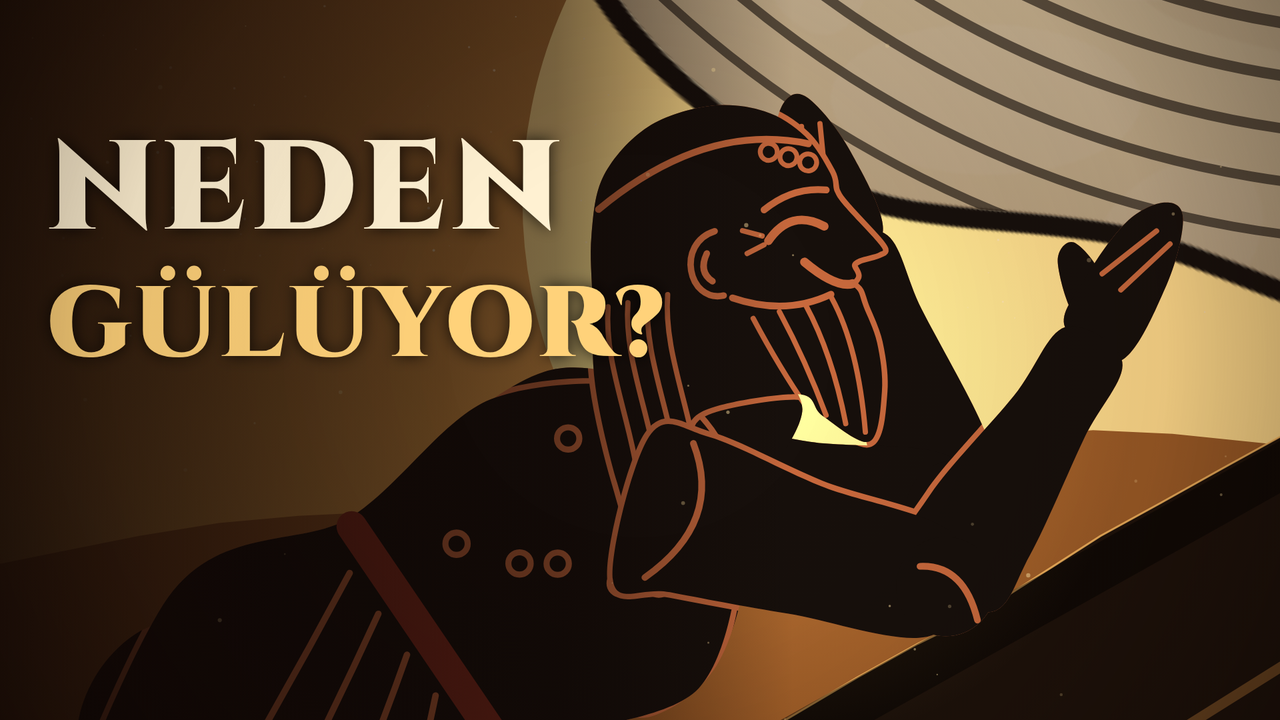
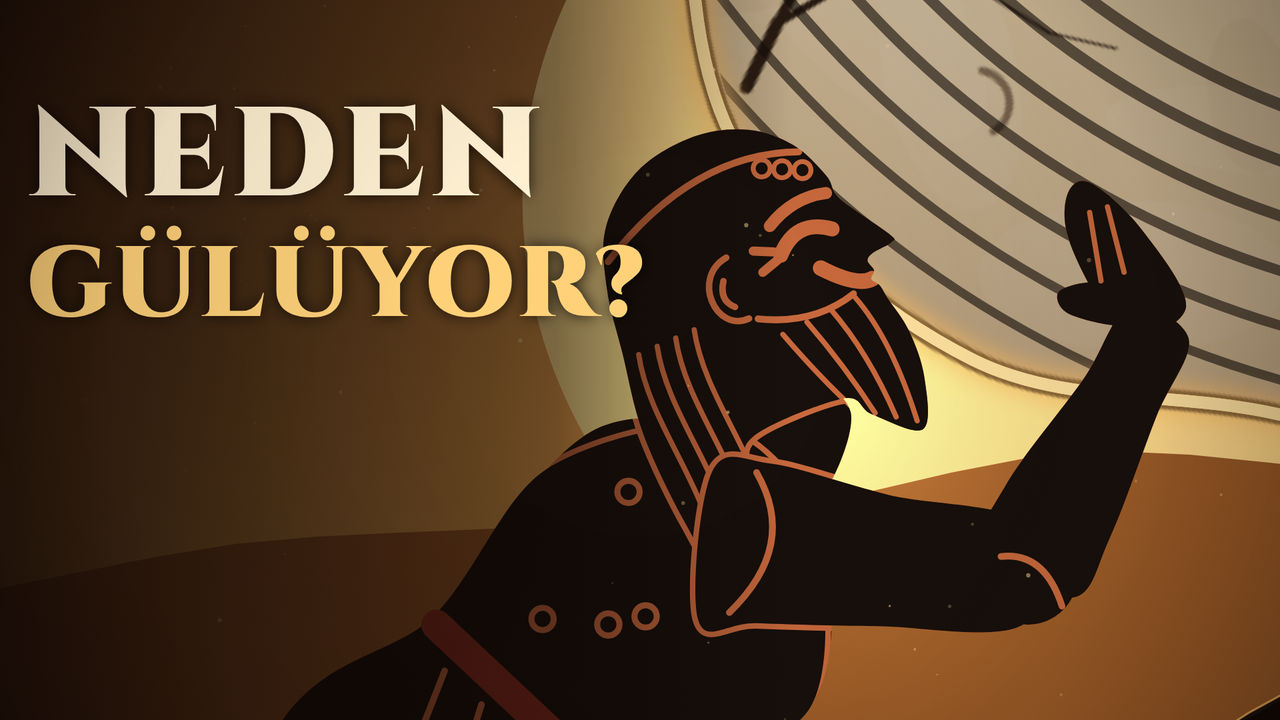
Sisifos: kurul 8. tur görsel düzeltmeleri (G10 eller ve alıntı zemini, G6 tek itiş, E1 paralaks, E2/E4 pozlar, D5 kalkış, D9b açı, çuvallı hamal, kapak B)
Claude-Session: https://claude.ai/code/session_01JJLJaY3ACPrjMaXvjxBBQC

diff --git a/sisifos/lib/act4.js b/sisifos/lib/act4.js
@@ -3,10 +3,11 @@
 // E1 — ölüm döşeğinde fısıltı
 shot(S('E01') - .3, (ctx, st) => {
   const t = st.t, lt = st.lt;
-  palace(ctx, t, { dark: .82, cols: [120, 1800] });
   // fısıltıda orta iki kişilik plana yaklaşma
   const gy = 880, tw = Wd('E01', 'kulağına'), two = ramp(t, tw - .45, tw + .45, E.io3);
   const c = { x: lerp(lerp(980, 930, st.p), 860, two), y: lerp(560, 520, two), z: lerp(lerp(1, 1.08, E.sine(st.p)), 1.9, two) };
+  // oda (sütunlar, friz) .45 derinlikte: yaklaşmada figürlerden yavaş kayar, mekân derinlik kazanır
+  ctx.save(); cam(ctx, { x: c.x, y: c.y, z: c.z + .06 }, .45); palace(ctx, t, { dark: .82, cols: [120, 1800] }); ctx.restore();
   ctx.save(); cam(ctx, c, 1);
   oilLamp(ctx, 1380, gy - 240, 2.4, t);
   ctx.fillStyle = C.ink; ctx.fillRect(1340, gy - 236, 80, 236);
@@ -26,15 +27,15 @@ shot(S('E01') - .3, (ctx, st) => {
     [tE + .2, { torso: -.04, neck: .05, head: .16 }],
     [tF + 1.2, { torso: -.06, head: .2 }],
   ]);
-  const ms = keyed(t, [[S('E01') - .3, { torso: .02, neck: .05, head: .08, shN: .25, elN: .35 }], [tE - .35, { torso: .02, neck: .05, head: .08, shN: .25, elN: .35 }],
-    [tE + .25, { torso: -.07, neck: -.12, head: -.08, shN: .55, elN: 1.75 }, E.outBack], [tF + 1.5, { torso: -.06, neck: -.1, head: -.05 }]]); // dinlerken eli göğsünde
+  const ms = keyed(t, [[S('E01') - .3, { torso: .02, neck: .05, head: .08, shN: .25, elN: .35, wrN: 0 }], [tE - .35, { torso: .02, neck: .05, head: .08, shN: .25, elN: .35, wrN: 0 }],
+    [tE + .25, { torso: -.07, neck: -.12, head: -.08, shN: -.18, elN: 2.05, wrN: .55 }, E.outBack], [tF + 1.5, { torso: -.06, neck: -.1, head: -.05 }]]); // dinlerken eli göğsünde
   const whisper = t > tF - .1 && t < tF + 1.2 ? Math.max(0, Math.sin(t * 11)) * .45 : 0;
   // sıcak kandil ışığı Sisifos'un arkasında (siyah figür koyu duvarda kaybolmasın)
   glow(ctx, 790, 520, 420, 'rgba(255,170,90,.34)'); glow(ctx, 805, 480, 170, 'rgba(255,200,130,.28)');
   const mx = 948, my = gy - 46 * 5.0;
   let shM = null;
   // Merope'nin omuz noktası (Sisifos'un eli için) önce kuru hesaplanır
-  const mPose = { ...ms, hipN: .12, hipF: -.1, shF: .15, elF: .5, handN: 'flat' };
+  const mPose = { ...ms, hipN: .12, hipF: -.1, shF: .15, elF: .5, handN: t > tE ? 'fist' : 'flat' }; // fısıltıyı dinlerken eli göğsünde, yumruk
   figure(ctx, { x: mx, y: my, s: 5.0, lk: LK.merope, p: mPose, alpha: 0, still: true, onJoints: (J, M) => { shM = jointPt(ctx, M, J.shoulder); } });
   figure(ctx, { x: 820, y: gy - 30 * 5.2 - 26, s: 5.2, lk: LK.sisKing, p: { ...S1, hipN: 1.6, knN: .05, hipF: 1.55, knF: .1, ankN: -.2, ankF: -.2, shF: lerp(-.9, .55, ramp(t, tK, tM)), elF: lerp(2.3, 1.6, ramp(t, tK, tM)), handN: 'open', breath: Math.sin(t * 1.1) * 1.3, mouthOpen: whisper },
     ik: shM && t > tM - .3 ? { hN: lerp2([900, gy - 300], [shM[0] - 18, shM[1] + 6], E.io2(ramp(t, tM - .3, tM + .35))) } : undefined });
@@ -57,7 +58,7 @@ shot(S('E02') - .2, (ctx, st) => {
     onJoints: (J, M) => { ear = headPt(ctx, J, M, [-1.2, -6.2]); } });
   // Sisifos'un arkasında sıcak ışık (siyah figür koyu duvarda kaybolmasın); başlar arasında boşluk kalır
   if (ear) glow(ctx, ear[0] - 230, ear[1] + 40, 420, 'rgba(255,170,90,.32)');
-  if (ear) figure(ctx, { x: ear[0] - 600, y: ear[1] + 590, s: 15, dir: 1, lk: LK.sisKing, p: { torso: .26, neck: .38, head: .26, shN: .1, shF: 0, blink: .35, mouthOpen: Math.max(0, Math.sin(t * 9)) * .35 * (t < S('E02') + 4.1 ? 1 : 0) }, margin: 40 });
+  if (ear) figure(ctx, { x: ear[0] - 600, y: ear[1] + 590, s: 15, dir: 1, lk: LK.sisKing, p: { torso: .3, neck: .1, head: -.14, shN: .1, shF: 0, blink: .3, mouthOpen: Math.max(0, Math.sin(t * 9)) * .35 * (t < S('E02') + 4.1 ? 1 : 0) }, margin: 40 });
   // simgeler
   const icons = [
     [Wd('E02', 'bedenimi'), 'GÖMME', (c) => { c.fillStyle = C.ink; c.beginPath(); c.moveTo(-70, 40); c.quadraticCurveTo(0, -60, 70, 40); c.fill(); c.fillRect(-12, -70, 24, 50); c.beginPath(); c.arc(0, -72, 14, PI, TAU); c.fill(); }],
@@ -98,12 +99,12 @@ function drawE3(ctx, t, c) {
     p: { ...oturan(), torso: .1, head: .25 + Math.sin(lt * .7) * .04 - think * .06, shN: .7, elN: .9, shF: .2, elF: 1.3, blink: Math.max(blinkAt(t, 41), ramp(t, t4, t4 + .6) * .35), brow: -.5 } });
   // Sisifos: girer, sonra el kol hareketleriyle şikâyet eder
   const enter = ramp(lt, 0, 2.2, E.io2), x = lerp(260, 640, enter);
-  // şikâyet: el kol hareketleri yumuşakça başlar ve biter (anahtarlı geçiş, ani poz değişimi yok)
+  // şikâyet: el kol hareketleri yumuşakça başlar ve biter; uzak el göğsünde ("ben"), yakın kol Persefoni'ye uzanır, dirsekler bükük
   const rant = ramp(t, t4 - .15, t4 + .35, E.io2) * (1 - ramp(t, t5 - .3, t5 + .2, E.io2)), w = t * 7;
   if (enter < 1) walkScene(ctx, null, x, 5.6, t, 1, { noCam: true, ground: FLAT(gy), dist: x, sty: R, cutCol: '#0B0605', lk: LK.sis });
   else figure(ctx, { x, y: gy - 46.5 * 5.6, s: 5.6, sty: R, cutCol: '#0B0605', lk: LK.sis,
     p: { torso: rant * Math.sin(w * .5) * .12, neck: rant * Math.sin(w * .7) * .15, head: rant * -.1, hipN: .12, hipF: -.1,
-      shN: lerp(.3, 1.65 + Math.sin(w) * .5, rant), elN: lerp(.4, .5 + Math.sin(w * 1.3) * .4, rant), shF: lerp(.2, 1.6 + Math.cos(w * .9) * .8, rant), elF: .6, handN: 'open', handF: 'open',
+      shN: lerp(.3, 1.35 + Math.sin(w) * .35, rant), elN: lerp(.4, .75 + Math.sin(w * 1.3) * .35, rant), shF: lerp(.2, .35 + Math.cos(w * .9) * .12, rant), elF: lerp(.6, 2.1, rant), wrF: rant * .4, handN: 'open', handF: 'open',
       brow: rant * 1.4, mouthOpen: rant * Math.max(0, Math.sin(w * 1.7)) * .8, smile: ramp(t, t5 + .3, t5 + .9, E.io2) } });
   ctx.restore();
   underworldFrame(ctx);

diff --git a/sisifos/lib/act6.js b/sisifos/lib/act6.js
@@ -192,18 +192,16 @@ function drawG6(ctx, t, cf, kp) {
   return x;
 }
 shot(S('G06') - .2, (ctx, st) => drawG6(ctx, st.t, x => ({ x: x - 30, y: hillY(x) - 330, z: 2.3 })), { tr: { type: 'cut' }, post: TP });
-// "Camus'ye göre bu, bilincin saatidir": göğüs planı, başın üstünde boşluk; alıntı sağda
+// "Camus'ye göre bu, bilincin saatidir … Sisifos o an kaderinin tamamen farkındadır": göğüs planından yüze tek, yavaş itiş (atlama kesmesi yok).
+// Alıntı itiş hızlanmadan söner; "farkındadır"da başını kaldırır, gözleri açılır; yüz "tam"a kadar tutulur.
 shot(Wd('G06', 'kamü') - .15, (ctx, st) => {
-  drawG6(ctx, st.t, x => ({ x: x + 60, y: hillY(x) - 300, z: 3.2 }));
-  quote(ctx, 'bilincin saati', 1400, 330, 820, st.t - Wd('G06', 'bilincin'), { font: 'italic 600 76px "Cormorant Garamond"', col: '#F7E2B8', shadow: 'rgba(0,0,0,.6)', blur: 14 });
+  const t = st.t, t0 = t - st.lt, t1 = Wd('G06', 'tam', 1) - .1, tf = Wd('G06', 'farkındadır'), ts = Wd('G06', 'sisifos');
+  const u = E.io2(clamp((t - t0) / (t1 - t0)));
+  const kf = keyed(t, [[t0, { head: -.05, neck: .02, blink: 0 }], [ts - .2, { blink: 0 }], [ts + .3, { blink: .35 }], [tf - .3, { head: .02, neck: .04, blink: .45 }], [tf + .4, { head: -.18, neck: -.06, blink: 0 }, E.outBack]]);
+  drawG6(ctx, t, x => ({ x: lerp(x + 60, x + 40, u), y: hillY(x) - lerp(300, 322, u), z: lerp(3.2, 5.2, u) }), kf);
+  quote(ctx, 'bilincin saati', 1400, 330, 820, t - Wd('G06', 'bilincin'), { font: 'italic 600 76px "Cormorant Garamond"', col: '#F7E2B8', shadow: 'rgba(0,0,0,.6)', blur: 14, a: 1 - ramp(t, ts - .5, ts) });
 }, { tr: { type: 'cut' }, post: TP });
-// "Sisifos o an kaderinin tamamen farkındadır": daha yakın yüz; "farkındadır"da başını kaldırır, gözleri açılır
-shot(Wd('G06', 'sisifos') - .15, (ctx, st) => {
-  const tf = Wd('G06', 'farkındadır');
-  const kf = keyed(st.t, [[st.t - st.lt, { head: -.05, neck: .02, blink: .35 }], [tf - .3, { head: .02, neck: .04, blink: .45 }], [tf + .4, { head: -.18, neck: -.06, blink: 0 }, E.outBack]]);
-  drawG6(ctx, st.t, x => ({ x: x + 40, y: hillY(x) - 312, z: lerp(4.0, 4.3, clamp(st.lt / 3.2)) }), kf);
-}, { tr: { type: 'cut' }, post: TP });
-shot(Wd('G06', 've') - .1, (ctx, st) => {
+shot(Wd('G06', 'tam', 1) - .1, (ctx, st) => {
   const pull = E.io3(clamp(st.lt / 2.4));
   drawG6(ctx, st.t, x => ({ x: lerp(x - 40, x - 330, pull), y: lerp(hillY(x) - 250, hillY(x) - 200, pull), z: lerp(1.6, .75, pull) }));
 }, { tr: { type: 'cut' }, post: TP });
@@ -276,7 +274,7 @@ shot(S('G10') - .3, (ctx, st) => {
   const sm = ramp(t, tm - .3, tm + 1.6, E.io2);
   const k10 = keyed(t, [[S('G10') - .3, { look: -.15, blink: 0, T: 1.14, strain: .3 }], [tm - .25, { look: -.12 }],
     [tm + .7, { look: -.42, blink: .78, T: 1.06, strain: 0 }, E.outBack], [tm + 1.7, { blink: .3 }], [tm + 2.6, { look: -.34, T: 1.08 }]]);
-  const po = { dist: xr, smile: sm * 2.2, blink: k10.blink, strain: k10.strain, look: k10.look, reach: 19, T: k10.T, hA: -.3, hB: -.24, breath: Math.sin(t * 1.3) * 1.2 }; // eller kayanın yanında, yüzün altında: baş ve gülümseme açıkta
+  const po = { dist: xr, smile: sm * 2.2, blink: k10.blink, strain: k10.strain, look: k10.look, reach: 16, T: k10.T, hA: -.3, hB: -.24, wrN: 1, wrF: 1, hIn: 6, hFrel: [0, 0], breath: Math.sin(t * 1.3) * 1.2 }; // avuç kayaya düz yaslı, parmaklar yukarı; uzak el yakın önkolun arkasında: baş ve gülümseme açıkta
   const P = pushScene(ctx, null, xr, 150, 4.0, t, { ...po, dry: true });
   // "mutlu"da yüze kadar itiş: gülümseme telefonda da okunur
   const push = ramp(t, tm - .35, tm + 1.5, E.io3);
@@ -291,9 +289,9 @@ shot(S('G10') - .3, (ctx, st) => {
   // alıntı üstte (YouTube altyazı bölgesi olan alt kısım boş kalır); sonraki geçişten önce söner
   const qa = 1 - ramp(t, S('H01') - .85, S('H01') - .5);
   ctx.save(); ctx.globalAlpha = qa * ramp(t, S('G10') - .1, S('G10') + .5);
-  { const bg = ctx.createLinearGradient(0, 60, 0, 290); bg.addColorStop(0, 'rgba(20,8,4,0)'); bg.addColorStop(.3, 'rgba(20,8,4,.78)'); bg.addColorStop(.75, 'rgba(20,8,4,.78)'); bg.addColorStop(1, 'rgba(20,8,4,0)'); ctx.fillStyle = bg; ctx.fillRect(0, 60, W, 230); }
+  softPanel(ctx, W / 2, 186, 840, 150, .72); // metin genişliğinde yumuşak zemin: açık kayanın üstünde şerit bırakmaz
   ctx.globalAlpha = qa;
-  quote(ctx, '“Sisifos’u mutlu hayal etmek gerekir.”', W / 2, 150, 1600, t - S('G10') + .1, { font: 'italic 600 78px "Cormorant Garamond"', col: '#FFF3D8', shadow: 'rgba(40,15,5,.75)', blur: 18, band: true });
+  quote(ctx, '“Sisifos’u mutlu hayal etmek gerekir.”', W / 2, 150, 1600, t - S('G10') + .1, { font: 'italic 600 78px "Cormorant Garamond"', col: '#FFF3D8', shadow: 'rgba(40,15,5,.75)', blur: 18 });
   txt(ctx, 'Il faut imaginer Sisyphe heureux.  — Albert Camus', W / 2, 226, { font: 'italic 600 46px "Cormorant Garamond"', col: '#F6E0B8', a: ramp(t, Se('G10') + .3, Se('G10') + 1.3), shadow: 'rgba(0,0,0,.6)', blur: 10 });
   ctx.restore();
 }, { tr: { type: 'cut' }, post: { tex: .5, vig: .9, grain: .05 } });

diff --git a/sisifos/lib/act1.js b/sisifos/lib/act1.js
@@ -104,16 +104,35 @@ shot(S('B02') - .3, (ctx, st) => {
   figure(ctx, { x: 345, y: gy - 27 * 5.2, s: 5.2, lk: LK.sisKing, hold: { F: HOLD.scepter(85) },
     p: { ...oturan(), torso: .02, head: .05, shN: .9 + Math.sin(lt * 1.3) * .08, elN: .55, shF: .55, elF: 1.1, handN: 'open', handF: 'fist', smile: .4, blink: (Math.sin(t * 1.7) > .97) ? 1 : 0 } });
   // amfora taşıyan tüccarlar (krala doğru yürür), amfora omuzda (figürün arkasında, kil kenar çizgisiyle ayrılır)
-  for (const [x0, ph, stopX, lkP, sc] of [[1180, 0, 1065, LK.citizen, 4.4], [1470, 66, 1320, { ...LK.citizen, beard: 'pointed', hair: 'long' }, 4.7]]) {
-    // yarım adım faz farkı (klon değil); amfora yığınının önünde dururlar
-    const x = Math.max(x0 - lt * 70, stopX);
-    const ax = x + 9 * sc, ay = gy - 83 * sc;
-    ctx.save(); ctx.translate(ax, ay); ctx.rotate(1.05);
-    ctx.lineWidth = 7; ctx.strokeStyle = C.clayL; ctx.save(); ctx.scale(1.25, 1.25); ctx.beginPath(); ctx.ellipse(0, -20, 26, 34, 0, 0, TAU); ctx.stroke(); ctx.restore();
-    amphora(ctx, 0, 0, 1.25, C.ink, C.red); ctx.restore();
-    walkScene(ctx, null, x, sc, t, -1, { noCam: true, ground: FLAT(gy), lk: lkP, dist: (x0 - x) + ph, stride: 30, lean: .14,
-      p: { shF: .3, elF: .4, handN: 'fist', handF: 'open', head: .08 },
-      ik: { hN: [ax - 4, ay + 10] } });
+  // ikincisi sırtında ağır bir çuval taşır: daha öne eğik, daha kısa ve yavaş adım (klon değil)
+  for (const [x0, ph, stopX, lkP, sc, sp, sack] of [[1180, 0, 1065, LK.citizen, 4.4, 70, false], [1470, 41, 1320, { ...LK.citizen, beard: 'pointed', hair: 'long' }, 4.7, 52, true]]) {
+    const x = Math.max(x0 - lt * sp, stopX);
+    if (!sack) {
+      const ax = x + 9 * sc, ay = gy - 83 * sc;
+      ctx.save(); ctx.translate(ax, ay); ctx.rotate(1.05);
+      ctx.lineWidth = 7; ctx.strokeStyle = C.clayL; ctx.save(); ctx.scale(1.25, 1.25); ctx.beginPath(); ctx.ellipse(0, -20, 26, 34, 0, 0, TAU); ctx.stroke(); ctx.restore();
+      amphora(ctx, 0, 0, 1.25, C.ink, C.red); ctx.restore();
+      walkScene(ctx, null, x, sc, t, -1, { noCam: true, ground: FLAT(gy), lk: lkP, dist: (x0 - x) + ph, stride: 30, lean: .14,
+        p: { shF: .3, elF: .4, handN: 'fist', handF: 'open', head: .08 },
+        ik: { hN: [ax - 4, ay + 10] } });
+    } else {
+      const bob = Math.abs(Math.sin(((x0 - x) + ph) / 26 * PI)) * 1.2 * sc * (x > stopX ? 1 : 0);
+      const sx = x + 10 * sc, sy = gy - 76 * sc + bob;
+      ctx.save(); ctx.translate(sx, sy); ctx.rotate(.35);
+      // çuval: ağzı büzülüp bağlanmış, dibi sarkık, düzensiz torba (kalkan ya da kap gibi okunmasın)
+      const sackP = c => { c.beginPath(); c.moveTo(-2.5 * sc, -15 * sc); c.bezierCurveTo(-9 * sc, -11 * sc, -15 * sc, -2 * sc, -13 * sc, 9 * sc);
+        c.bezierCurveTo(-11 * sc, 17 * sc, 7 * sc, 18 * sc, 12 * sc, 9 * sc); c.bezierCurveTo(15 * sc, 1 * sc, 9 * sc, -10 * sc, 2.5 * sc, -15 * sc); c.closePath(); };
+      ctx.fillStyle = C.ink; sackP(ctx); ctx.fill(); ctx.lineWidth = 2.4 * sc; ctx.strokeStyle = C.ink; ctx.stroke();
+      ctx.fillStyle = C.red; ctx.save(); ctx.scale(.9, .9); ctx.translate(0, .8 * sc); sackP(ctx); ctx.fill(); ctx.restore();
+      ctx.strokeStyle = C.ink; ctx.lineWidth = .9 * sc; ctx.lineCap = 'round';
+      for (const [a0, a1] of [[-6, 7], [-1, 13], [5, 9]]) { ctx.beginPath(); ctx.moveTo(a0 * sc, -9 * sc); ctx.quadraticCurveTo((a0 + a1) * .5 * sc - 2 * sc, 3 * sc, a1 * sc - 4 * sc, 13 * sc); ctx.stroke(); } // büzgü kırışıkları
+      ctx.fillStyle = C.ink; ctx.fillRect(-3.4 * sc, -16.6 * sc, 6.8 * sc, 2.2 * sc); // bağ
+      ctx.beginPath(); ctx.moveTo(-2.4 * sc, -16 * sc); ctx.lineTo(-4.2 * sc, -21 * sc); ctx.lineTo(4.2 * sc, -21 * sc); ctx.lineTo(2.4 * sc, -16 * sc); ctx.closePath(); ctx.fill(); // büzülmüş ağız
+      ctx.restore();
+      walkScene(ctx, null, x, sc, t, -1, { noCam: true, ground: FLAT(gy), lk: lkP, dist: (x0 - x) + ph, stride: 24, lean: .26,
+        p: { handN: 'fist', handF: 'fist', head: -.05, brow: .8 },
+        ik: { hN: [sx - 9 * sc, sy - 12 * sc], hF: [sx - 5 * sc, sy - 15 * sc] } });
+    }
   }
   ctx.restore();
 }, { tr: { type: 'cut' }, post: { tex: .9, vig: .75 } });

diff --git a/sisifos/lib/act3.js b/sisifos/lib/act3.js
@@ -109,9 +109,12 @@ function drawD5(ctx, t, c, phase) {
   throne(ctx, 360, gy, 5.6, 1, C.ink, C.clay, { high: true });
   if (phase === 0) {
     // tahttan kalkar ve merakla Thanatos'a doğru yürür (kilit planındaki yerine gelir)
-    const su = ramp(t, S('D05') - .1, S('D05') + .7, E.io2), wk = ramp(t, S('D05') + .65, Wd('D05', 've') - .25, E.io2);
+    // kalkış: önce gövde öne eğilir (ağırlık ayaklara), kalça ancak sonra yükselir; doğrulurken baş öne bakar
+    const t0s = S('D05') - .15;
+    const lean = keyed(t, [[t0s, { torso: .2, head: .05 }], [t0s + .38, { torso: .66, head: -.12 }, E.io2], [t0s + 1.0, { torso: .12, head: .08 }, E.io2]]);
+    const su = ramp(t, t0s + .28, t0s + 1.0, E.io2), wk = ramp(t, t0s + .9, Wd('D05', 've') - .25, E.io2);
     if (wk <= 0) { const o = oturan(), k = 1 - su; figure(ctx, { x: 455 + su * 24, y: lerp(gy - 27 * 5.6, gy - 46.5 * 5.6, su), s: 5.6, lk: LK.sisKing,
-      p: { ...o, hipN: o.hipN * k, knN: o.knN * k, hipF: o.hipF * k, knF: o.knF * k, torso: .2 + su * .25 * (1 - su) * 4 * .3, head: .05, shN: lerp(1.2, .3, su), elN: .6, smile: .6 } }); }
+      p: { ...o, hipN: o.hipN * k, knN: o.knN * k, hipF: o.hipF * k, knF: o.knF * k, torso: lean.torso, head: lean.head, shN: lerp(1.2, .3, su), elN: .6, smile: .6 } }); }
     else { const x = lerp(479, 860, wk); walkScene(ctx, null, x, 5.6, t, 1, { noCam: true, ground: FLAT(gy), dist: x, lk: LK.sisKing, stride: lerp(6, 30, ramp(wk, 0, .2)), stand: 1 - ramp(wk, 0, .15), p: { smile: .6, head: .08, shN: Math.sin(x / 40) * .25, shF: -Math.sin(x / 40) * .25 } }); }
   }
   else {
@@ -299,9 +302,12 @@ shot(Wd('D09', 'sisifos') - .15, (ctx, st) => {
   const t = st.t, lt = st.lt, tg = Wd('D09', 'teslim');
   clayBG(ctx, '#8A4326', '#4A2214', { x: 1100, y: 460, r: 1000, c: 'rgba(240,150,90,.45)' });
   const gy = 900;
-  ctx.fillStyle = '#1A0D09'; ctx.fillRect(0, gy, W, 300); ctx.fillStyle = 'rgba(214,130,80,.5)'; ctx.fillRect(0, gy, W, 3);
+  // D9'dan farklı açı: daha yakın, hafif eğik (gerilim) kadraj; aynı salon
+  const c9 = { x: 1020, y: 562, z: 1.2, r: -.035 };
+  ctx.save(); cam(ctx, c9, 1);
+  ctx.fillStyle = '#1A0D09'; ctx.fillRect(-400, gy, W + 800, 600); ctx.fillStyle = 'rgba(214,130,80,.5)'; ctx.fillRect(-400, gy, W + 800, 3);
   // zorla teslim: Ares ilk kareden omzunu kavrar ve sürükler; Sisifos geriye yaslanır, topukları kayar, kolu savunmada; son itiş "teslim"de
-  column(ctx, 96, 80, gy, 80, '#2A140C', '#6A3020'); // aynı salon: D9'daki sütunlardan biri kadrajın kenarında
+  column(ctx, 250, 0, gy, 80, '#2A140C', '#6A3020'); // aynı salon: D9'daki sütunlardan biri kadrajın kenarında
   const t0 = st.start ?? (Wd('D09', 'sisifos') - .15), drag = ramp(t, t0, tg - .5, E.io2), shove = ramp(t, tg - .5, tg + .1, E.in2), pull = ramp(t, tg + .3, tg + 1.3, E.io2);
   const xs = lerp(760, 900, drag) + shove * 110 + pull * 110;
   const strug = (1 - shove) * Math.sin(t * 9) * .05;
@@ -327,6 +333,9 @@ shot(Wd('D09', 'sisifos') - .15, (ctx, st) => {
       for (const sd of ['N', 'F']) { const q = wrW(ctx, M, J, sd); shackle(ctx, q[0], q[1], 16, .2, '#E1B07A'); chain(ctx, [q, [q[0] - 6, q[1] + 60], [q[0] - 2, q[1] + 110]], 18, '#E1B07A', '#5A2A16', 5); } } }); // el ancak "teslim"de uzanır
   // kanatlar ekranı kaplar
   // temiz iris kapanışı: Ölüm ve kurbanı üzerinde daralan daire
+  const ic = ctx.getTransform().transformPoint(new DOMPoint(1220, 560));
+  ctx.restore();
+  const icS = ctx.getTransform().inverse().transformPoint(ic); // iris merkezi ekran koordinatında
   const env = ramp(t, tg + 1.0, st.end, E.in2);
-  if (env > 0) { const r = lerp(1500, 0, env); ctx.save(); ctx.fillStyle = '#000'; ctx.beginPath(); ctx.rect(0, 0, W, H); ctx.arc(1220, 560, Math.max(0, r), 0, TAU, true); ctx.fill('evenodd'); ctx.restore(); }
+  if (env > 0) { const r = lerp(1600, 0, env); ctx.save(); ctx.fillStyle = '#000'; ctx.beginPath(); ctx.rect(0, 0, W, H); ctx.arc(icS.x, icS.y, Math.max(0, r), 0, TAU, true); ctx.fill('evenodd'); ctx.restore(); }
 }, { tr: { type: 'cut' }, post: { tex: .5, vig: 1, grain: .07 } });

diff --git a/sisifos/lib/kapak.js b/sisifos/lib/kapak.js
@@ -49,20 +49,25 @@ SCENES.kapak = ctx => kapakDraw(ctx, 'ÖLÜMÜ', 'ZİNCİRLEDİ', 168, 118);
 SCENES.kapak_en = ctx => kapakDraw(ctx, 'HE CHAINED', 'DEATH', 112, 176);
 // B kapağı (YouTube "Test ve Karşılaştır" için): yüz yakın planı — kayaya omuz vermiş, gülümseyen Sisifos; "NEDEN GÜLÜYOR?"
 SCENES.kapak_b = ctx => {
-  const xr = 330, po = { dist: xr, smile: 2.4, blink: .45, strain: .2, look: -.35, reach: 19, T: 1.12, hA: -.55, hB: -.62 };
+  // avuç kayaya düz yaslı, uzak el yakın elin arkasında gizli (boynuz gibi bir şekil kalmaz); yüz çizgileri küçük boyutta okunsun diye kalın
+  const xr = 330, po = { dist: xr, smile: 2.4, blink: .45, strain: .2, look: -.35, reach: 14, T: .9, hA: -.35, hB: -.35, wrN: 1, wrF: 1, hIn: 8, hFrel: [0, 0], faceW: 1.75 };
   const P = pushScene(ctx, null, xr, 150, 4.0, 5, { ...po, dry: true });
-  const z = 7.6, c = { x: P.head[0] + (W / 2 - 1180) / z, y: P.head[1] + (H / 2 - 600) / z, z };
+  const z = 7.6, c = { x: P.head[0] + (W / 2 - 1250) / z, y: P.head[1] + (H / 2 - 610) / z, z };
   const zk = 1 + (z - 1) * .15, cxk = W / 2 + (c.x - W / 2) * .15, cyk = H / 2 + (c.y - H / 2) * .15;
   tartarosBG(ctx, 5, c, { warm: 1, diskX: cxk + (1500 - W / 2) / zk, diskY: cyk + (300 - H / 2) / zk, diskR: 360 });
   tartarosHill(ctx, c, { groove: .9, warm: 1 });
-  ctx.save(); ctx.globalCompositeOperation = 'lighter'; glow(ctx, 1180, 600, 520, 'rgba(255,190,110,.22)'); ctx.restore(); // yüzde sıcak ışık
-  pushScene(ctx, c, xr, 150, 4.0, 5, po);
+  ctx.save(); ctx.globalCompositeOperation = 'lighter'; glow(ctx, 1250, 610, 520, 'rgba(255,190,110,.22)'); ctx.restore(); // yüzde sıcak ışık
+  // kaya + arkadan vuran güneşle parlayan kenar (omzun değdiği yerde kaya açıkça okunur); figür önde çizilir
+  ctx.save(); cam(ctx, c, 1); boulder(ctx, P.cx, P.cy, 150, xr / 150, { shadow: false, light: -1.2 });
+  ctx.translate(P.cx, P.cy); ctx.rotate(xr / 150); ctx.beginPath(); spline(ctx, BOULDER.map(q => [q[0] * 150, q[1] * 150]));
+  ctx.shadowColor = 'rgba(255,190,100,1)'; ctx.shadowBlur = 40; ctx.strokeStyle = 'rgba(255,226,160,1)'; ctx.lineWidth = 2.4; ctx.stroke(); ctx.stroke(); ctx.restore();
+  pushScene(ctx, c, xr, 150, 4.0, 5, { ...po, noRock: true });
   motes(ctx, 5, 40, 33, 'rgba(255,225,160,.8)', [0, 0, W, H], 12, 2.2, .7);
   const g = ctx.createLinearGradient(0, 0, W * .62, 0);
   g.addColorStop(0, 'rgba(14,6,4,.88)'); g.addColorStop(.7, 'rgba(14,6,4,.55)'); g.addColorStop(1, 'rgba(14,6,4,0)');
   ctx.fillStyle = g; ctx.fillRect(0, 0, W * .62, H);
   const sh = { shadow: 'rgba(0,0,0,.75)', blur: 22 };
-  txt(ctx, 'NEDEN', 70, 300, { font: '900 190px Cinzel', col: '#FFF1D2', align: 'left', ls: 8, ...sh });
-  txt(ctx, 'GÜLÜYOR?', 70, 500, { font: '900 150px Cinzel', col: '#FFD27A', align: 'left', ls: 4, ...sh });
+  txt(ctx, 'NEDEN', 40, 250, { font: '900 190px Cinzel', col: '#FFF1D2', align: 'left', ls: 8, ...sh });
+  txt(ctx, 'GÜLÜYOR?', 40, 440, { font: '900 150px Cinzel', col: '#FFD27A', align: 'left', ls: 4, ...sh });
   applyVignette(ctx, .55);
 };

diff --git a/sisifos/lib/figure.js b/sisifos/lib/figure.js
@@ -378,6 +378,7 @@ function drawHead(G, f, J, det) {
     }
     G.part(c => spline(c, headOutline(lk)), {});
     // göz
+    const FW = f.faceW || 1; // yüz çizgisi kalınlık çarpanı (küçük boyutta okunan kapak gibi yakın planlar için)
     const bl = clamp(1 - (p.blink || 0));
     const ey = lk.eyeY ?? -7.0;
     if (lk.whiteEye) {
@@ -388,8 +389,8 @@ function drawHead(G, f, J, det) {
       const smE = clamp((p.smile || 0) / 2);
       if (smE > .55) {
         // gülen göz: tek kavis (^), uçlarda kaz ayağı
-        det(c => { c.moveTo(2.1, ey + .2); c.quadraticCurveTo(3.5, ey - 1.15, 4.95, ey + .05); }, .42);
-        det(c => { c.moveTo(1.85, ey - .1); c.lineTo(.95, ey - .55); c.moveTo(1.85, ey + .35); c.lineTo(.95, ey + .6); }, .26);
+        det(c => { c.moveTo(2.1, ey + .2); c.quadraticCurveTo(3.5, ey - 1.15, 4.95, ey + .05); }, .42 * FW);
+        det(c => { c.moveTo(1.85, ey - .1); c.lineTo(.95, ey - .55); c.moveTo(1.85, ey + .35); c.lineTo(.95, ey + .6); }, .26 * FW);
       } else {
         det(c => { c.moveTo(2.2, ey); c.quadraticCurveTo(3.5, ey - .9 * bl, 4.9, ey - .2); c.quadraticCurveTo(3.5, ey + .6 * bl, 2.2, ey); }, .36);
         if (bl > .3) G.cut(c => c.arc(3.75, ey - .12, .5, 0, TAU), .3, true);
@@ -397,13 +398,13 @@ function drawHead(G, f, J, det) {
     }
     // kaş
     const br = p.brow || 0;
-    det(c => { c.moveTo(2.2, -8.4 - br * .3); c.quadraticCurveTo(3.8, -9.3 - br * .6, 5.4, -8.6 + br * .45); }, .34);
+    det(c => { c.moveTo(2.2, -8.4 - br * .3); c.quadraticCurveTo(3.8, -9.3 - br * .6, 5.4, -8.6 + br * .45); }, .34 * FW);
     // kulak
     if (hb !== 'petasos' || true) det(c => { c.moveTo(-.4, -7.8); c.bezierCurveTo(-2.4, -7.6, -2.4, -4.6, -.6, -4.6); c.moveTo(-1.0, -6.8); c.quadraticCurveTo(-1.6, -6, -1.0, -5.4); }, .32);
     // ağız
     const sm = p.smile || 0;
     // ağız: gülümsedikçe köşe yanağa doğru yükselir ve çizgi kalınlaşır; yanakta gülme çizgisi
-    det(c => { c.moveTo(5.75, -3.9); c.quadraticCurveTo(4.9, -3.6 - sm * .1, 4.0 - sm * .15, -4.1 - sm * .55); }, .3 + clamp(sm / 2) * .14);
+    det(c => { c.moveTo(5.75, -3.9); c.quadraticCurveTo(4.9, -3.6 - sm * .1, 4.0 - sm * .15, -4.1 - sm * .55); }, (.3 + clamp(sm / 2) * .14) * FW);
     if (p.mouthOpen) G.cut(c => { c.moveTo(5.8, -3.95); c.quadraticCurveTo(5.0, -3.2 - p.mouthOpen * .6, 4.6, -3.7); c.closePath(); }, .3, true);
     // sakal ve saç kazımaları
     if (lk.beard) {

diff --git a/sisifos/lib/film.js b/sisifos/lib/film.js
@@ -185,6 +185,13 @@ function nameTag(ctx, name, sub, x, y, lt, d = 3.2, o = {}) {
   ctx.fillStyle = o.line || C.gold; ctx.fillRect(al === 'left' ? x : x - lw / 2, y + 22 + (sub ? 46 : 0) + 4, lw, 2);
   ctx.restore();
 }
+// Yazının arkasına yumuşak, metin genişliğinde eliptik koyu zemin (tam genişlik şerit yerine)
+function softPanel(ctx, x, y, rx, ry, a = .7, col = '20,8,4') {
+  ctx.save(); ctx.translate(x, y); ctx.scale(1, ry / rx);
+  const g = ctx.createRadialGradient(0, 0, 0, 0, 0, rx);
+  g.addColorStop(0, `rgba(${col},${a})`); g.addColorStop(.55, `rgba(${col},${a * .75})`); g.addColorStop(1, `rgba(${col},0)`);
+  ctx.fillStyle = g; ctx.fillRect(-rx, -rx, 2 * rx, 2 * rx); ctx.restore();
+}
 // Alıntı tipografisi (satır kırma ile)
 function quote(ctx, s, x, y, maxW, lt, o = {}) {
   const font = o.font || 'italic 500 56px "Cormorant Garamond"', lh = o.lh || 70;
@@ -194,7 +201,7 @@ function quote(ctx, s, x, y, maxW, lt, o = {}) {
   if (cur) lines.push(cur);
   ctx.restore();
   const y0 = y - (lines.length - 1) * lh / 2;
-  if (o.band) { const qa = ramp(lt, o.delay || 0, (o.delay || 0) + .8); const hh = lines.length * lh + 90; const g = ctx.createLinearGradient(0, y - hh / 2, 0, y + hh / 2); g.addColorStop(0, 'rgba(20,8,4,0)'); g.addColorStop(.5, `rgba(20,8,4,${.55 * qa})`); g.addColorStop(1, 'rgba(20,8,4,0)'); ctx.fillStyle = g; ctx.fillRect(0, y - hh / 2, W, hh); }
+  if (o.band) { ctx.save(); ctx.font = font; const ww = Math.max(...lines.map(l => ctx.measureText(l).width)); ctx.restore(); softPanel(ctx, x, y, ww / 2 + 200, lines.length * lh / 2 + 70, .6 * ramp(lt, o.delay || 0, (o.delay || 0) + .8)); }
   lines.forEach((ln, i) => {
     const q = ramp(lt, (o.delay || 0) + i * (o.stagger ?? .35), (o.delay || 0) + i * (o.stagger ?? .35) + .9);
     txt(ctx, ln, x, y0 + i * lh + (1 - q) * 12, { font, col: o.col || C.white, a: q * (o.a ?? 1), shadow: o.shadow, blur: o.blur, align: o.align });

diff --git a/sisifos/lib/tartaros.js b/sisifos/lib/tartaros.js
@@ -127,7 +127,9 @@ function pushScene(ctx, c, xr, R, s, t, o = {}) {
   const bob = Math.sin((d / S2) * TAU * 2) * 1.0 * s;
   const jit = (o.jitter || 0) * s; // kas titremesi
   const pel = [px + noise1(t * 38, 7) * jit, py0 + bob + noise1(t * 38, 8) * jit];
-  let hN = add(onR(hA), [-off * 30 * s, 0]), hF = add(onR(hB), [-off * 30 * s, 0]);
+  const hIn = -(o.hIn || 0) * s; // ellerin kaya silüetine gömülme payı (avuç kayaya yaslanmış görünür)
+  let hN = add(onR(hA, hIn), [-off * 30 * s, 0]), hF = add(onR(hB, hIn), [-off * 30 * s, 0]);
+  if (o.hFrel) hF = add(hN, scl(o.hFrel, s)); // uzak el yakın elin hemen arkasında (önkol altında gizli)
   let head = add(pel, scl(rot([.4, -36], T), s));
   if (o.dry) return { cx, cy, pel, head };
   // yere kapanma (prone) ve dört ayak üstünde doğrulma (rise): itme pozundan yamaç üstündeki pozlara karışım
@@ -162,9 +164,9 @@ function pushScene(ctx, c, xr, R, s, t, o = {}) {
   const shadeRock = () => { if (o.noRock) return; if (rk) boulder(ctx, rk[0], rk[1], R, rk[2], { shadow: false, light: o.light ?? -1.2 }); else boulder(ctx, cx, cy, R, rockAng, { shadow: false, light: o.light ?? -1.2 }); };
   if (!o.rockFront) shadeRock();
   figure(ctx, {
-    x: P[0], y: P[1], s, sty: o.sty || STY.black, cutCol: o.cutCol,
+    x: P[0], y: P[1], s, sty: o.sty || STY.black, cutCol: o.cutCol, faceW: o.faceW,
     lk: o.lk || { beard: 'pointed', hair: 'long', garment: 'short', torn: true }, alpha: o.alpha,
-    p: { torso: TT, neck: nk, head: hd, handN: 'flat', handF: 'flat',
+    p: { torso: TT, neck: nk, head: hd, handN: o.handN || 'flat', handF: o.handF || 'flat', wrN: o.wrN || 0, wrF: o.wrF || 0,
       brow: -strain, smile: o.smile || 0, breath: o.breath ?? Math.sin(t * 2.4) * (.5 + .4 * strain), blink: o.blink, mouthOpen: o.mouthOpen || 0 },
     ik: { hN, hF, fN: fNp, fF: fFp },
   });
